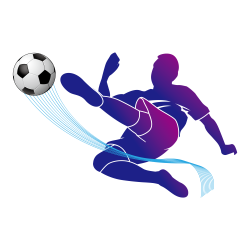
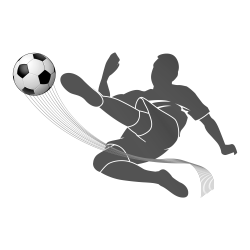
index

Changed region(s): [[0.112, 0.196, 0.952, 0.812]]

diff --git a/css/index2025.css b/css/index2025.css
@@ -174,13 +174,14 @@ header {
 }
 
 .nav-item {
+  position: relative;
   display: flex;
   flex-direction: column;
-  padding: 3rem 2rem;
+  padding: 5rem 2rem;
   border-radius: var(--p-m-g);
   transition: 0.4s;
   border-bottom: 1px solid rgba(0, 0, 0, 0.1);
-  background-image: url(../imgs/ce3f3094644f398d.png);
+  background-image: url(../imgs/socer.png);
   background-size: 80px;
   background-repeat: no-repeat;
   background-position: right bottom;
